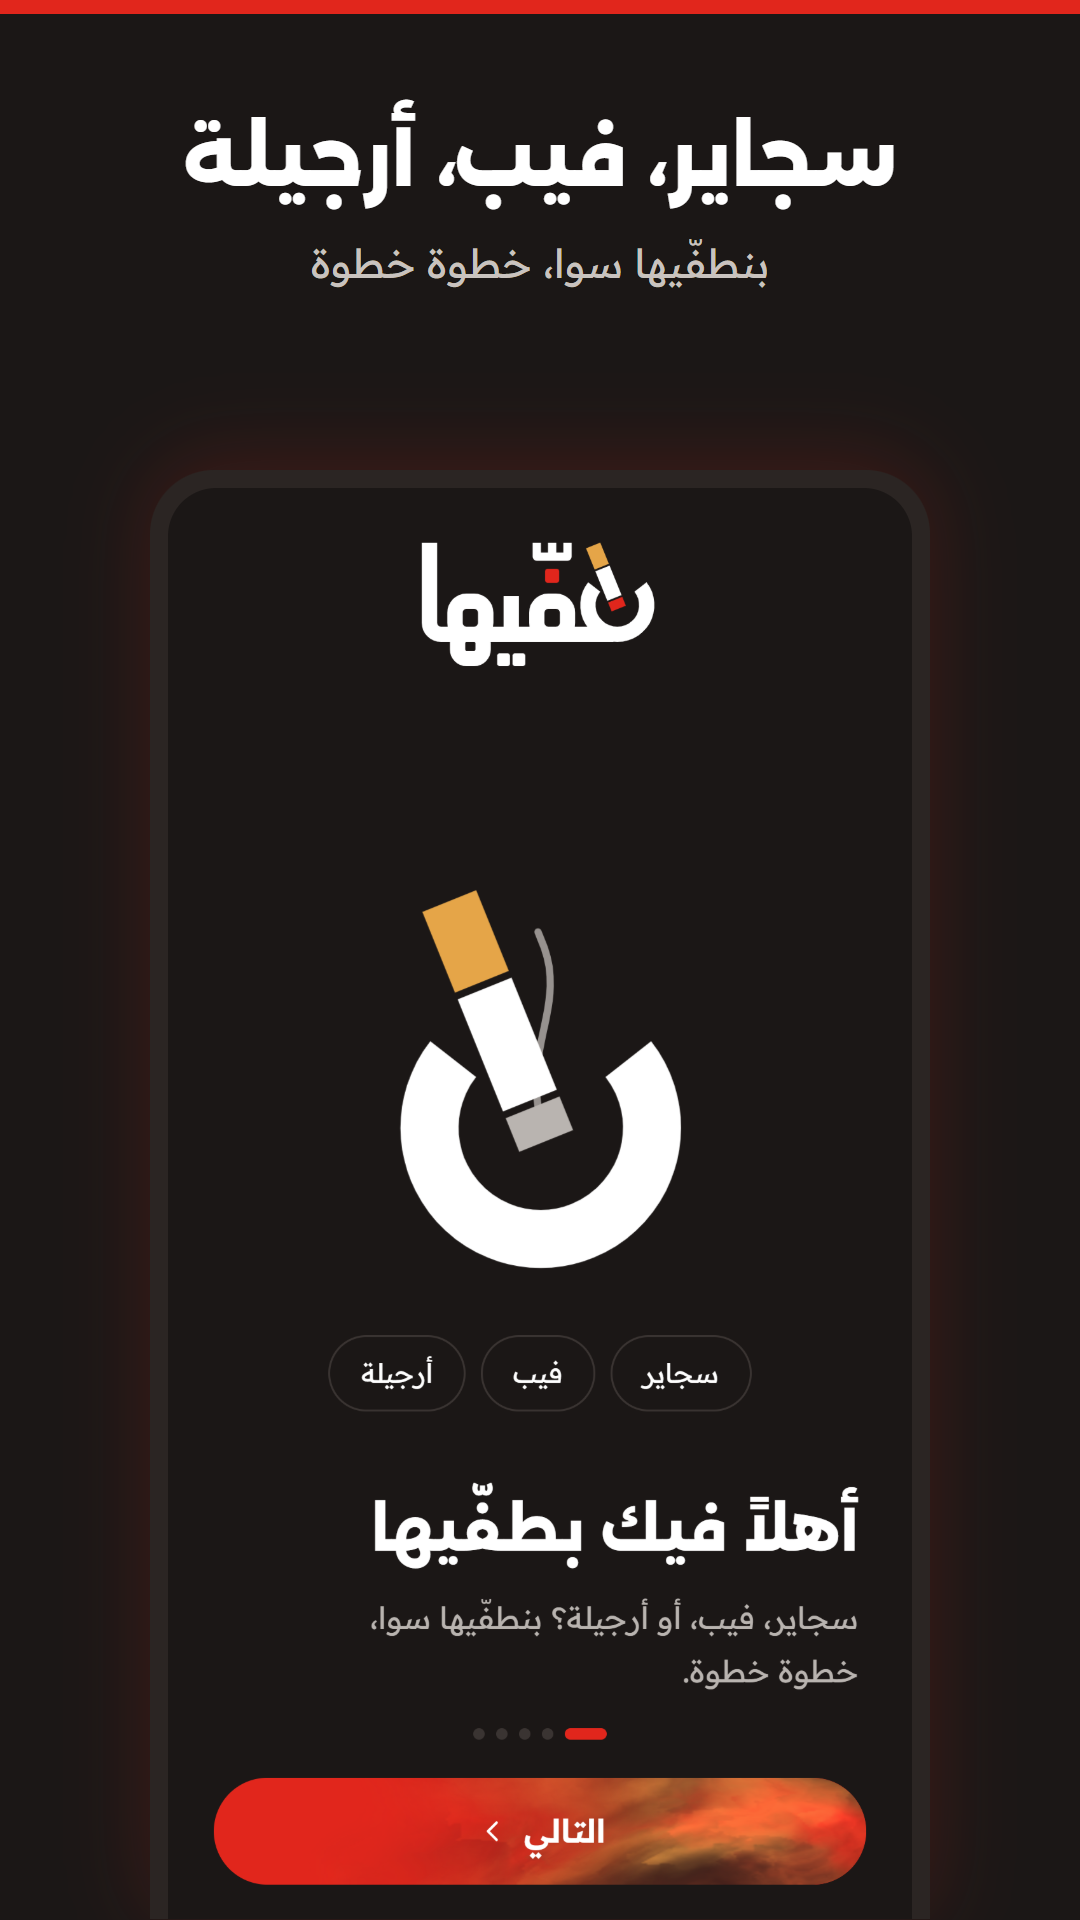
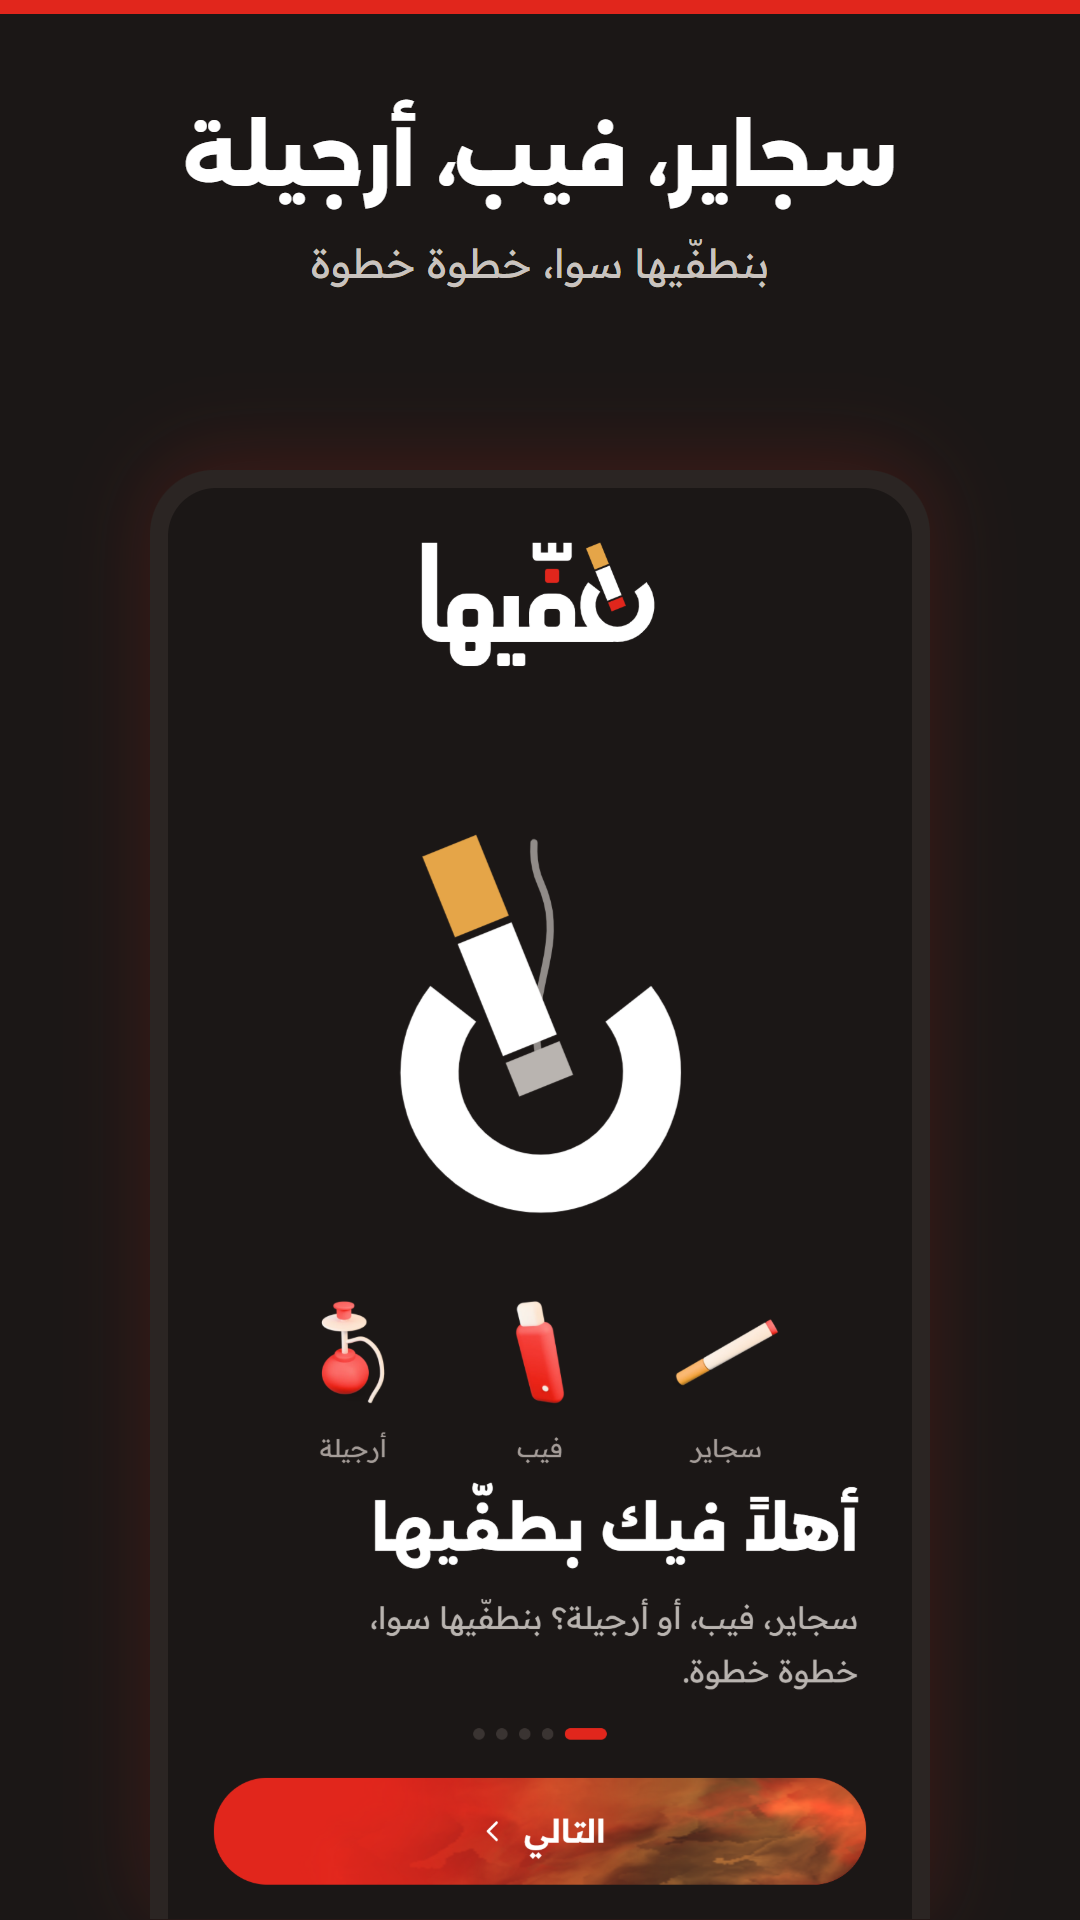
Welcome screen: 3D cigarette, vape and hookah instead of word chips
The three pill-shaped words read like buttons to people trying the app. They
are now three small 3D objects made in Blender (make_icons.py: cig, vape,
hookah, in the icon set's style), each with a quiet name under it, rising in
with the rest of the opening.

Also: the animated 3D mark (make_logo3d_anim.py: the ember burns red, goes
out to ash, simulated smoke) and a frames-to-MP4 helper; store screenshots
re-rendered.

diff --git a/css/onboarding.css b/css/onboarding.css
@@ -48,8 +48,11 @@
 .intro-smoke { fill: none; stroke: var(--ash); stroke-width: 3; stroke-linecap: round; stroke-dasharray: 150; stroke-dashoffset: 150; animation: intro-smoke 4.4s linear infinite; }
 @keyframes intro-ember { 0%, 6% { fill: #b9b4b0; } 14% { fill: #ff6a2b; } 22% { fill: #e1261c; } 30% { fill: #ff6a2b; } 40% { fill: #e1261c; } 58% { fill: #a8150f; } 72%, 100% { fill: #b9b4b0; } }
 @keyframes intro-smoke { 0%, 60% { stroke-dashoffset: 150; opacity: 0; } 66% { opacity: .9; } 88% { stroke-dashoffset: 0; opacity: .6; } 100% { stroke-dashoffset: 0; opacity: 0; } }
-.intro-chips { display: flex; gap: 8px; }
-.intro-chips span { padding: 8px 16px; border-radius: 99px; border: 1px solid #3a3432; font-size: 14px; }
+/* what we help quit: three small 3D objects (blender/make_icons.py) with a quiet name under each; not buttons */
+.intro-kinds { display: flex; gap: 22px; margin: 0; }
+.intro-kinds figure { margin: 0; display: flex; flex-direction: column; align-items: center; gap: 2px; }
+.intro-kinds img { width: 76px; height: 76px; }
+.intro-kinds figcaption { font-size: 13px; color: #a59d99; }
 
 /* cards */
 .intro-card { background: var(--paper); border-radius: 24px; padding: 18px 20px; display: flex; flex-direction: column; }
@@ -176,8 +179,10 @@
    after the other with a small spring. It animates 'translate', so the swipe's own transforms keep working. */
 .intro.enter .intro-page:first-child :is(.intro-brand, .intro-hero) { animation: intro-drop 760ms cubic-bezier(.34, 1.36, .64, 1) both; }
 .intro.enter .intro-page:first-child .intro-hero { animation-delay: 90ms; }
-.intro.enter .intro-page:first-child :is(.intro-chips, .intro-title, .intro-sub, .intro-dots, .intro-btn) { animation: intro-rise 620ms cubic-bezier(.34, 1.4, .64, 1) both; }
-.intro.enter .intro-page:first-child .intro-chips { animation-delay: 200ms; }
+.intro.enter .intro-page:first-child :is(.intro-kinds figure, .intro-title, .intro-sub, .intro-dots, .intro-btn) { animation: intro-rise 620ms cubic-bezier(.34, 1.4, .64, 1) both; }
+.intro.enter .intro-page:first-child .intro-kinds figure:nth-child(1) { animation-delay: 180ms; }
+.intro.enter .intro-page:first-child .intro-kinds figure:nth-child(2) { animation-delay: 230ms; }
+.intro.enter .intro-page:first-child .intro-kinds figure:nth-child(3) { animation-delay: 280ms; }
 .intro.enter .intro-page:first-child .intro-title { animation-delay: 280ms; }
 .intro.enter .intro-page:first-child .intro-sub { animation-delay: 360ms; }
 .intro.enter .intro-page:first-child .intro-dots { animation-delay: 460ms; }
@@ -199,6 +204,7 @@
 /* short phones */
 @media (max-height: 700px) {
   .intro-visual { min-height: 190px; gap: 18px; }
+  .intro-kinds img { width: 60px; height: 60px; }
   .intro-hero { width: min(150px, 40vw); }
   .intro-title { font-size: 25px; }
   .intro-foot { padding-top: 10px; gap: 10px; }

diff --git a/sw.js b/sw.js
@@ -1,12 +1,12 @@
 // طفّيها — offline support. App files (fonts included): network first, cache as fallback.
-const CACHE = 'tafiha-v27';
+const CACHE = 'tafiha-v28';
 const SHELL = [
   './', './index.html', './css/fonts.css', './css/app.css', './css/onboarding.css', './manifest.webmanifest',
   './assets/fonts/alexandria-arabic.woff2', './assets/fonts/alexandria-latin-ext.woff2', './assets/fonts/alexandria-latin.woff2', './assets/fonts/big-shoulders-display-latin-ext.woff2', './assets/fonts/big-shoulders-display-latin.woff2', './assets/fonts/readex-pro-arabic.woff2', './assets/fonts/readex-pro-latin-ext.woff2', './assets/fonts/readex-pro-latin.woff2',
   './js/account.js', './js/captcha.js', './js/content.js', './js/onboarding.js', './js/notify.js', './js/sb.js', './js/validate.js', './js/security.js', './js/vendor/supabase.js', './js/vendor/html2canvas.js', './js/vendor/jspdf.js',
   './js/app.js', './js/store.js', './js/craving.js', './js/share.js', './js/cigarette.js', './js/smoke.js', './js/smoky.js', './js/assessment.js', './js/plan.js', './js/report.js', './js/merge.js', './js/sync.js', './js/config.js',
   './assets/cig-body.webp', './assets/cig-tip-out.webp', './assets/cig-tip-idle.webp', './assets/cig-tip-hot.webp',
-  './assets/hero-vape.webp', './assets/icons/coins.webp', './assets/icons/pack.webp', './assets/icons/drop.webp', './assets/icons/heart.webp', './assets/icons/shield.webp', './assets/icons/gum.webp', './assets/icons/patch.webp', './assets/icons/target.webp',
+  './assets/hero-vape.webp', './assets/icons/coins.webp', './assets/icons/pack.webp', './assets/icons/drop.webp', './assets/icons/heart.webp', './assets/icons/shield.webp', './assets/icons/gum.webp', './assets/icons/patch.webp', './assets/icons/target.webp', './assets/icons/cig.webp', './assets/icons/vape.webp', './assets/icons/hookah.webp',
   './assets/brand/tafiha-logo-transparent-dark.svg', './assets/brand/tafiha-logo-transparent-light.svg', './assets/brand/tafiha-icon-rounded.svg', './assets/brand/tafiha-mark-transparent-light.svg', './assets/brand/favicon.svg',
   './assets/icon-192.png', './assets/icon-512.png', './assets/icon-maskable-512.png', './assets/apple-touch-icon.png', './assets/favicon-32.png',
 ];

diff --git a/js/onboarding.js b/js/onboarding.js
@@ -48,7 +48,7 @@ function screens(consult) {
             <rect class="intro-ember" x="294" y="-55" width="24" height="15"/>
           </g>
         </svg>
-        <div class="intro-chips"><span>سجاير</span><span>فيب</span><span>أرجيلة</span></div>`,
+        <div class="intro-kinds"><figure><img src="assets/icons/cig.webp" alt="" width="76" height="76"><figcaption>سجاير</figcaption></figure><figure><img src="assets/icons/vape.webp" alt="" width="76" height="76"><figcaption>فيب</figcaption></figure><figure><img src="assets/icons/hookah.webp" alt="" width="76" height="76"><figcaption>أرجيلة</figcaption></figure></div>`,
     },
     {
       id: 'plan', title: 'خطة إلك إنت',

diff --git a/blender/make_logo3d_anim.py b/blender/make_logo3d_anim.py
@@ -1,0 +1,222 @@
+"""
+طفّيها — the 3D mark, animated: the tip burns red, goes out to grey ash, and real (simulated) smoke
+rises from it, thick while it burns, then a last thinning trail.
+
+  frames   1–60 burning (flickering ember, glow on the ring), 60–105 going out, to 150 the smoke clears
+  smoke    Blender's smoke simulation (Mantaflow) from the tip; the cigarette is an obstacle,
+           so the smoke climbs along it
+
+Run:
+  blender.exe -b --factory-startup -P make_logo3d_anim.py -- <out_dir> [size] [samples] [frames]
+Writes <out_dir>/frames/####.png, plus still-burning.png and still-out.png.
+"""
+import bpy
+import math
+import os
+import sys
+from mathutils import Vector
+
+here = os.path.dirname(os.path.abspath(__file__))
+argv = sys.argv
+args = argv[argv.index("--") + 1:] if "--" in argv else []
+OUT = os.path.abspath(args[0]) if args else os.path.join(here, "anim")
+SIZE = int(args[1]) if len(args) > 1 else 1080
+SAMPLES = int(args[2]) if len(args) > 2 else 64
+FRAMES = args[3] if len(args) > 3 else "all"
+os.makedirs(os.path.join(OUT, "frames"), exist_ok=True)
+
+# the still scene: ring, cigarette, backdrop, lights, camera
+os.environ["TAFIHA_SCENE_ONLY"] = "1"
+sys.argv = [argv[0], "--", OUT, str(SIZE), str(SAMPLES)]
+exec(compile(open(os.path.join(here, "make_logo3d.py"), encoding="utf-8").read(), "make_logo3d.py", "exec"))
+
+scene = bpy.context.scene
+scene.frame_start, scene.frame_end = 1, 150
+scene.render.fps = 30
+LIT_END, OUT_END = 60, 105
+
+# the drawn wisp gives way to real smoke
+bpy.data.objects.remove(bpy.data.objects["wisp"], do_unlink=True)
+
+# ---------------------------------------------------------------- the ember, then ash
+ash = bpy.data.objects["ash"]
+m = bpy.data.materials.new("ember")
+try:
+    m.use_nodes = True
+except Exception:
+    pass
+nt = m.node_tree
+b = nt.nodes.get("Principled BSDF")
+b.inputs["Roughness"].default_value = 0.95
+
+burn = nt.nodes.new("ShaderNodeValue")          # 1 = burning, 0 = out
+burn.outputs[0].default_value = 1.0
+burn.outputs[0].keyframe_insert("default_value", frame=LIT_END)
+burn.outputs[0].default_value = 0.0
+burn.outputs[0].keyframe_insert("default_value", frame=OUT_END)
+
+cracks = nt.nodes.new("ShaderNodeTexNoise")      # ash flecks over the glowing tip
+cracks.inputs["Scale"].default_value = 70.0
+cracks.inputs["Detail"].default_value = 10.0
+flick = nt.nodes.new("ShaderNodeTexNoise")       # slow flicker, animated through W
+flick.noise_dimensions = "4D"
+flick.inputs["Scale"].default_value = 3.0
+flick.inputs["W"].default_value = 0.0
+flick.inputs["W"].keyframe_insert("default_value", frame=1)
+flick.inputs["W"].default_value = 9.0
+flick.inputs["W"].keyframe_insert("default_value", frame=150)
+
+ash_ramp = nt.nodes.new("ShaderNodeValToRGB")    # surface: dark ash flecks / grey ash
+ash_ramp.color_ramp.elements[0].position = 0.42
+ash_ramp.color_ramp.elements[0].color = lin("#5E5853")
+ash_ramp.color_ramp.elements[1].position = 0.62
+ash_ramp.color_ramp.elements[1].color = lin(ASH)
+nt.links.new(cracks.outputs["Fac"], ash_ramp.inputs["Fac"])
+
+hot = nt.nodes.new("ShaderNodeValToRGB")         # glow colour: deep red in the cracks, orange-yellow hot spots
+hot.color_ramp.elements[0].position = 0.3
+hot.color_ramp.elements[0].color = lin("#7A0A05")
+hot.color_ramp.elements[1].position = 0.7
+hot.color_ramp.elements[1].color = lin("#FF5A14")
+mid = hot.color_ramp.elements.new(0.5)
+mid.color = lin(RED)
+nt.links.new(cracks.outputs["Fac"], hot.inputs["Fac"])
+
+# glow strength = burning × flicker × (less where ash flecks sit)
+fl = nt.nodes.new("ShaderNodeMapRange")
+fl.inputs["To Min"].default_value = 1.6
+fl.inputs["To Max"].default_value = 4.5
+nt.links.new(flick.outputs["Fac"], fl.inputs["Value"])
+fleck = nt.nodes.new("ShaderNodeMapRange")
+fleck.inputs["From Min"].default_value = 0.4
+fleck.inputs["From Max"].default_value = 0.65
+fleck.inputs["To Min"].default_value = 1.0
+fleck.inputs["To Max"].default_value = 0.05
+nt.links.new(cracks.outputs["Fac"], fleck.inputs["Value"])
+m1 = nt.nodes.new("ShaderNodeMath"); m1.operation = "MULTIPLY"
+m2 = nt.nodes.new("ShaderNodeMath"); m2.operation = "MULTIPLY"
+nt.links.new(fl.outputs["Result"], m1.inputs[0])
+nt.links.new(fleck.outputs["Result"], m1.inputs[1])
+nt.links.new(m1.outputs["Value"], m2.inputs[0])
+nt.links.new(burn.outputs[0], m2.inputs[1])
+emit_color = "Emission Color" if "Emission Color" in b.inputs else "Emission"
+nt.links.new(hot.outputs["Color"], b.inputs[emit_color])
+nt.links.new(m2.outputs["Value"], b.inputs["Emission Strength"])
+# while burning the surface is dark char; once out it is grey ash
+base = nt.nodes.new("ShaderNodeMix")
+base.data_type = "RGBA"
+base.inputs["A"].default_value = (0.0, 0.0, 0.0, 1)
+nt.links.new(burn.outputs[0], base.inputs["Factor"])
+nt.links.new(ash_ramp.outputs["Color"], base.inputs["A"])
+base.inputs["B"].default_value = lin("#2A1512")
+nt.links.new(base.outputs["Result"], b.inputs["Base Color"])
+bump_tex = nt.nodes.new("ShaderNodeBump")
+bump_tex.inputs["Strength"].default_value = 0.9
+bump_tex.inputs["Distance"].default_value = 0.02
+nt.links.new(cracks.outputs["Fac"], bump_tex.inputs["Height"])
+nt.links.new(bump_tex.outputs["Normal"], b.inputs["Normal"])
+ash.data.materials.clear()
+ash.data.materials.append(m)
+
+# the ember's light on the ring and paper
+tip = start + axis * 0.06
+glow = bpy.data.lights.new("ember-glow", "POINT")
+glow.color = (1.0, 0.36, 0.12)
+glow.shadow_soft_size = 0.15
+glow.energy = 45.0
+glow.keyframe_insert("energy", frame=LIT_END)
+glow.energy = 0.0
+glow.keyframe_insert("energy", frame=OUT_END)
+g = bpy.data.objects.new("ember-glow", glow)
+g.location = tip + Vector((0, -0.25, -0.05))
+scene.collection.objects.link(g)
+
+# ---------------------------------------------------------------- the smoke
+bpy.ops.mesh.primitive_cube_add(size=1, location=(-0.2, 0, 1.15))
+domain = bpy.context.active_object
+domain.name = "smoke"
+domain.scale = (2.6, 1.4, 3.4)
+bpy.ops.object.transform_apply(scale=True)
+fm = domain.modifiers.new("fluid", "FLUID")
+fm.fluid_type = "DOMAIN"
+d = fm.domain_settings
+d.domain_type = "GAS"
+d.resolution_max = 160
+d.cache_type = "REPLAY"
+d.cache_directory = os.path.join(OUT, "cache")
+d.cache_frame_start, d.cache_frame_end = 1, 150
+d.vorticity = 0.35
+d.alpha = 0.0          # smoke weight: neutral
+d.beta = 4.0           # heat lifts it
+d.use_dissolve_smoke = True
+d.dissolve_speed = 110
+d.use_dissolve_smoke_log = True
+d.use_adaptive_domain = False
+d.time_scale = 1.3
+
+vm = bpy.data.materials.new("smoke")
+try:
+    vm.use_nodes = True
+except Exception:
+    pass
+vnt = vm.node_tree
+for n in list(vnt.nodes):
+    vnt.nodes.remove(n)
+vout = vnt.nodes.new("ShaderNodeOutputMaterial")
+vol = vnt.nodes.new("ShaderNodeVolumePrincipled")
+vol.inputs["Color"].default_value = lin("#D8D3CE")
+vol.inputs["Density"].default_value = 6.0
+vol.inputs["Anisotropy"].default_value = 0.35
+vnt.links.new(vol.outputs["Volume"], vout.inputs["Volume"])
+domain.data.materials.append(vm)
+
+# source: a small sphere in the burning tip, on while it burns and fading as it goes out
+# just past the burning end: a source inside an obstacle would be blocked
+bpy.ops.mesh.primitive_uv_sphere_add(radius=0.07, location=start - axis * 0.06)
+src = bpy.context.active_object
+src.name = "smoke-source"
+src.hide_render = True
+sm = src.modifiers.new("fluid", "FLUID")
+sm.fluid_type = "FLOW"
+f = sm.flow_settings
+f.flow_type = "SMOKE"
+f.flow_behavior = "INFLOW"
+f.flow_source = "MESH"
+f.surface_distance = 0.05
+f.volume_density = 1.0
+f.smoke_color = (0.85, 0.83, 0.8)
+f.temperature = 1.6
+f.density = 1.0
+f.keyframe_insert("density", frame=LIT_END)
+f.keyframe_insert("temperature", frame=LIT_END)
+f.density = 0.0
+f.temperature = 0.0
+f.keyframe_insert("density", frame=OUT_END + 5)
+f.keyframe_insert("temperature", frame=OUT_END + 5)
+
+# the cigarette and ring are in the smoke's way
+for name in ("paper", "band", "filter", "ring"):
+    em = bpy.data.objects[name].modifiers.new("fluid", "FLUID")
+    em.fluid_type = "EFFECTOR"
+    em.effector_settings.effector_type = "COLLISION"
+
+# ---------------------------------------------------------------- render
+scene.cycles.samples = SAMPLES
+scene.cycles.volume_step_rate = 1.5 if hasattr(scene.cycles, "volume_step_rate") else None
+scene.render.resolution_x = scene.render.resolution_y = SIZE
+cam.location = FOCUS + Vector((0, -11.0 * math.cos(math.radians(6)), 11.0 * math.sin(math.radians(6))))
+cam.rotation_euler = (FOCUS - cam.location).to_track_quat("-Z", "Y").to_euler()
+scene.render.image_settings.file_format = "PNG"
+
+# the smoke is simulated frame by frame from the start, so frames always render in order
+frames = range(1, 151) if FRAMES == "all" else [int(x) for x in FRAMES.split(",")]
+stills = {45: "still-burning", 150: "still-out"}
+for fr in range(1, max(frames) + 1):
+    scene.frame_set(fr)
+    if fr in frames:
+        scene.render.filepath = os.path.join(OUT, "frames", f"{fr:04d}.png")
+        bpy.ops.render.render(write_still=True)
+        print("frame", fr, flush=True)
+        if fr in stills:
+            import shutil
+            shutil.copy(scene.render.filepath, os.path.join(OUT, stills[fr] + ".png"))

diff --git a/blender/make_icons.py b/blender/make_icons.py
@@ -446,6 +446,65 @@ def icon_target():                                  # red + white
     shoot(sc, cam, "target")
 
 
+def along(ob, yaw, rise=0):
+    """Turns a Z-axis part to lie along `yaw` degrees, lifted `rise` degrees off the ground."""
+    ob.rotation_euler = (0, math.radians(90 - rise), math.radians(yaw))
+
+
+# the three products on the first welcome screen
+def icon_cig():                                     # white + yellow, a red ember tip
+    sc, cam = reset()
+    white, yellow, red = mat("Paper", WHITE), mat("Filter", YELLOW), mat("Ember", RED)
+    r, yaw, rise = 0.2, 28, 32          # propped up on its filter, ember high
+    c, s = math.cos(math.radians(rise)), math.sin(math.radians(rise))
+    d = Vector((c * math.cos(math.radians(yaw)), c * math.sin(math.radians(yaw)), s))
+    for length, at, m in ((0.95, -1.05, yellow), (2.0, 0.45, white), (0.16, 1.53, red)):
+        ob = cyl(r * (0.995 if m is red else 1.0), length, d * at + Vector((0, 0, r)), m, bevel=0.025)
+        along(ob, yaw, rise)
+    shoot(sc, cam, "cig")
+
+
+def icon_vape():                                    # red body, white mouthpiece
+    sc, cam = reset()
+    red, white = mat("Body", RED), mat("Mouth", WHITE)
+    body = box((0.78, 0.42, 1.9), (0, 0, 0.95), red, bevel=0.2, segs=8)
+    tip = box((0.5, 0.26, 0.5), (0, 0, 2.05), white, bevel=0.12, segs=8)
+    for ob in (body, tip):
+        ob.rotation_euler = (0, math.radians(-12), 0)
+    led = cyl(0.07, 0.03, (0.0, -0.215, 0.5), white, verts=48, bevel=0.01)
+    led.rotation_euler = (math.radians(90), math.radians(-12), 0)
+    shoot(sc, cam, "vape")
+
+
+def icon_hookah():                                  # red vase and bowl, white stem, tray and hose
+    sc, cam = reset()
+    red, white = mat("Vase", RED), mat("Metal", WHITE)
+    bpy.ops.mesh.primitive_uv_sphere_add(segments=96, ring_count=48, radius=0.75, location=(0, 0, 0.62))
+    vase = bpy.context.active_object
+    vase.scale = (1, 1, 0.85)
+    smooth(vase)
+    vase.data.materials.append(red)
+    cyl(0.32, 0.22, (0, 0, 1.25), red, bevel=0.06)             # neck
+    cyl(0.09, 1.25, (0, 0, 1.9), white, verts=48, bevel=0.02)  # stem
+    cyl(0.62, 0.07, (0, 0, 2.35), white, bevel=0.03)           # tray
+    cyl(0.2, 0.32, (0, 0, 2.62), red, bevel=0.06)              # bowl
+    cyl(0.28, 0.08, (0, 0, 2.8), red, bevel=0.03)              # bowl rim
+    hose = bpy.data.curves.new("hose", "CURVE")
+    hose.dimensions = "3D"
+    hose.bevel_depth = 0.06
+    hose.bevel_resolution = 6
+    sp = hose.splines.new("BEZIER")
+    pts = [(0.08, 0, 1.75), (0.75, -0.1, 1.95), (1.25, -0.2, 1.2), (1.0, -0.35, 0.06)]
+    sp.bezier_points.add(len(pts) - 1)
+    for bp, p in zip(sp.bezier_points, pts):
+        bp.co = p
+        bp.handle_left_type = bp.handle_right_type = "AUTO"
+    ob = bpy.data.objects.new("hose", hose)
+    sc.collection.objects.link(ob)
+    hose.materials.append(white)
+    shoot(sc, cam, "hookah")
+
+
 for name in ONLY:
     globals()[f"icon_{name}"]()
 print("DONE")

diff --git a/blender/frames_to_mp4.py b/blender/frames_to_mp4.py
@@ -1,0 +1,37 @@
+"""
+Joins rendered PNG frames into an H.264 MP4 with Blender's own video encoder (no ffmpeg install needed).
+
+  blender.exe -b --factory-startup -P frames_to_mp4.py -- <frames_dir> <out.mp4> [fps]
+"""
+import bpy
+import os
+import sys
+
+args = sys.argv[sys.argv.index("--") + 1:]
+src, out = os.path.abspath(args[0]), os.path.abspath(args[1])
+fps = int(args[2]) if len(args) > 2 else 30
+files = sorted(f for f in os.listdir(src) if f.endswith(".png"))
+
+scene = bpy.context.scene
+scene.sequence_editor_create()
+seqs = scene.sequence_editor.strips if hasattr(scene.sequence_editor, "strips") else scene.sequence_editor.sequences
+strip = seqs.new_image("frames", os.path.join(src, files[0]), channel=1, frame_start=1)
+for f in files[1:]:
+    strip.elements.append(f)
+img = bpy.data.images.load(os.path.join(src, files[0]))
+scene.render.resolution_x, scene.render.resolution_y = img.size
+scene.render.resolution_percentage = 100
+scene.render.fps = fps
+scene.frame_start, scene.frame_end = 1, len(files)
+s = scene.render.image_settings
+if hasattr(s, "media_type"):
+    s.media_type = "VIDEO"
+s.file_format = "FFMPEG"
+ff = scene.render.ffmpeg
+ff.format = "MPEG4"
+ff.codec = "H264"
+ff.constant_rate_factor = "HIGH"
+ff.ffmpeg_preset = "GOOD"
+scene.render.filepath = out
+bpy.ops.render.render(animation=True)
+print("wrote", out)

diff --git a/blender/make_logo3d.py b/blender/make_logo3d.py
@@ -254,5 +254,6 @@ def shoot(name, az, el, dist=11.0):
     print("wrote", scene.render.filepath)
 
 
-shoot("front", 0, 6)
-shoot("angle", -28, 14)
+if os.environ.get("TAFIHA_SCENE_ONLY") != "1":  # make_logo3d_anim.py builds on this scene
+    shoot("front", 0, 6)
+    shoot("angle", -28, 14)
